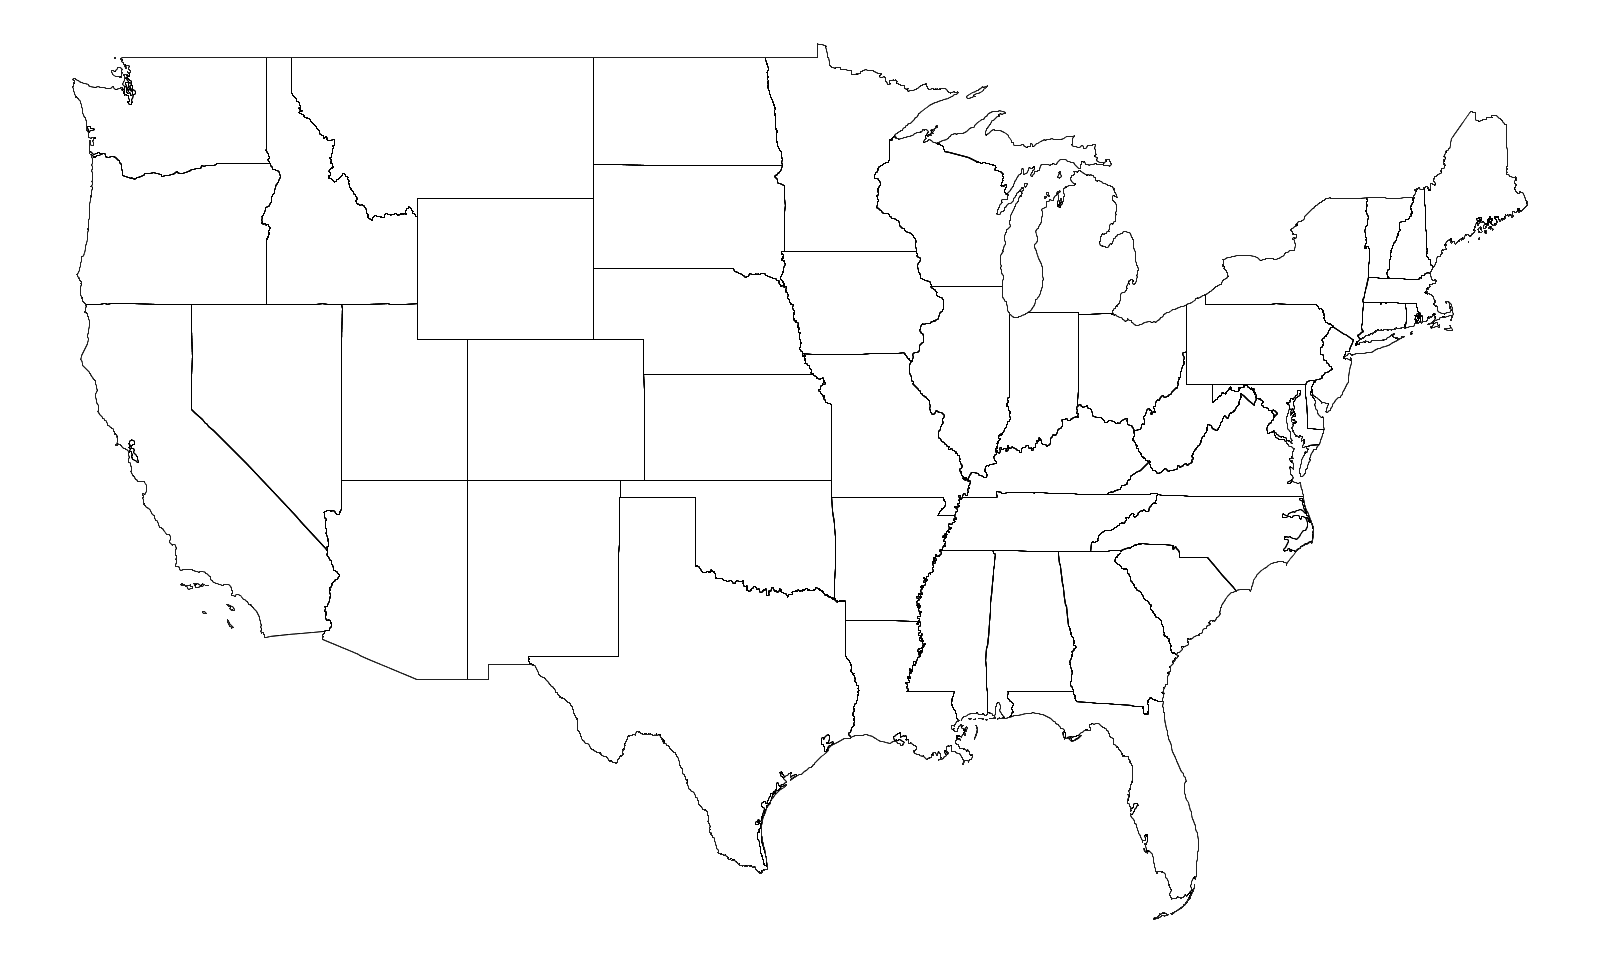
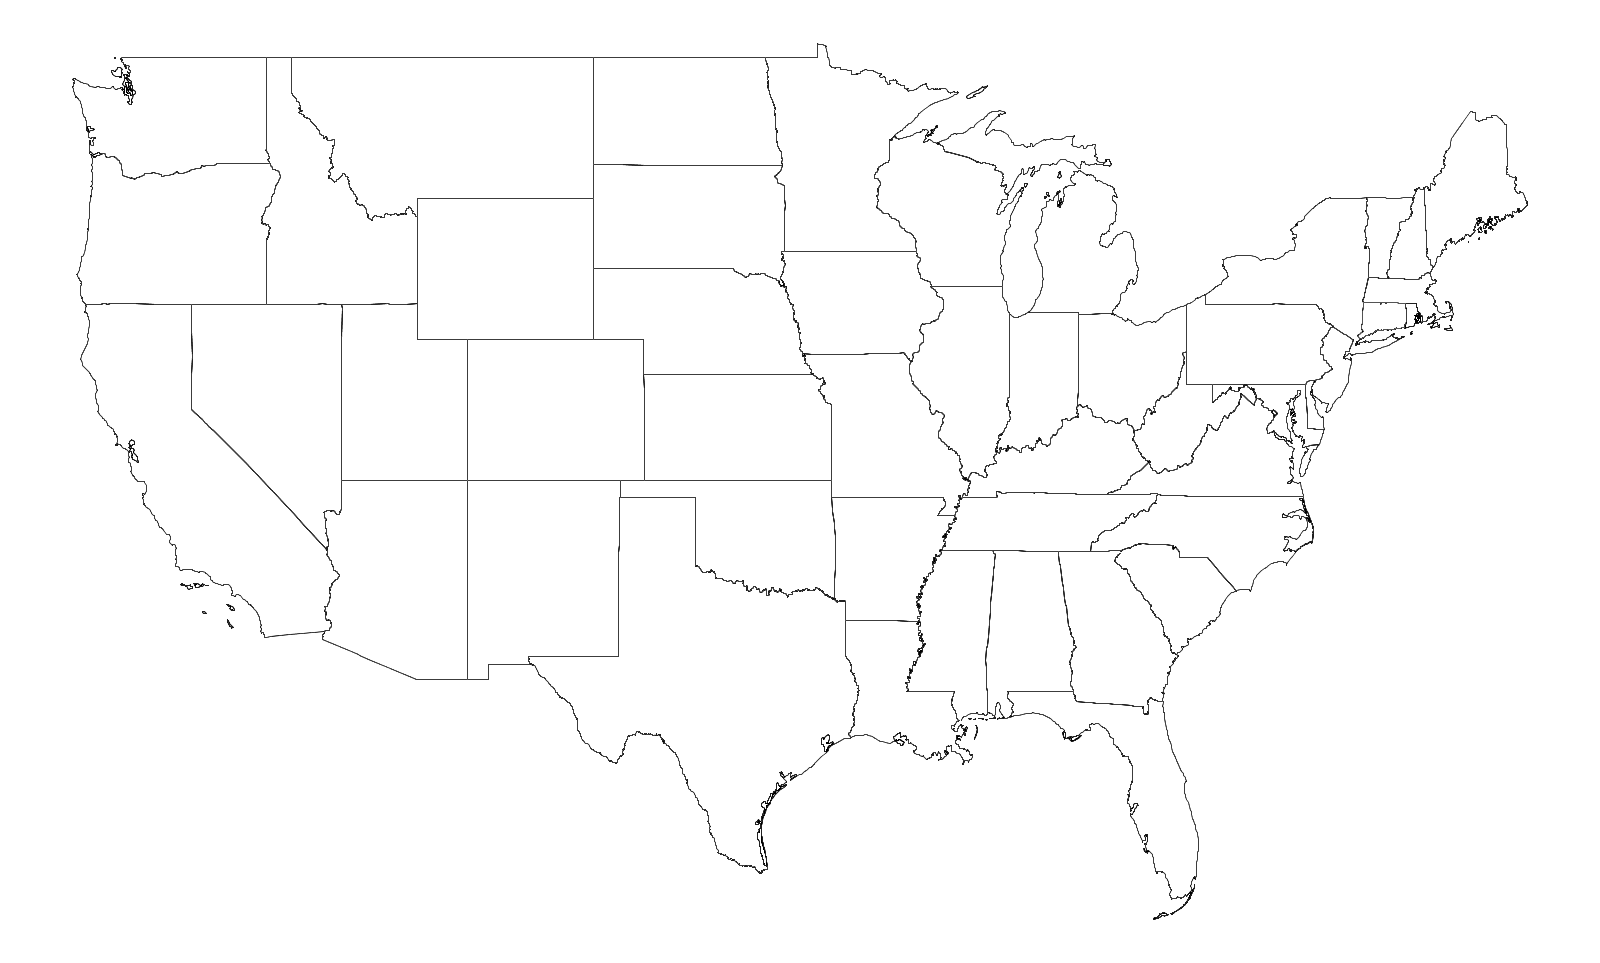
Added wireframe borders

diff --git a/src/Visuals/MapPanel.java b/src/Visuals/MapPanel.java
@@ -17,12 +17,14 @@ public class MapPanel extends JPanel {
 	
 	private HashMap<String, BufferedImage> states;
 	private HashMap<String, Integer> data;
+	BufferedImage borders = null;
 	
 	public MapPanel(HashMap<String, Integer> data2) {
 		states = new HashMap<String, BufferedImage>();
 		data = data2;
 		
 		try {
+			borders = ImageIO.read(new File("Images/white-states.png"));
 			for (String state : TwitterVisualization.states) {
 				states.put(state, ImageIO.read(new File("Images/" + state + ".png")));
 			}
@@ -49,6 +51,8 @@ public class MapPanel extends JPanel {
 	    
 	    for (String state : TwitterVisualization.states)
 	    	g.drawImage(states.get(state).getScaledInstance((int) (Display.F_WIDTH * .75), -1, states.get(state).SCALE_SMOOTH), 0, 0, this);
+	    
+	    g.drawImage(borders, 0, 0, this);
 	}
 	
 	//Change Color
